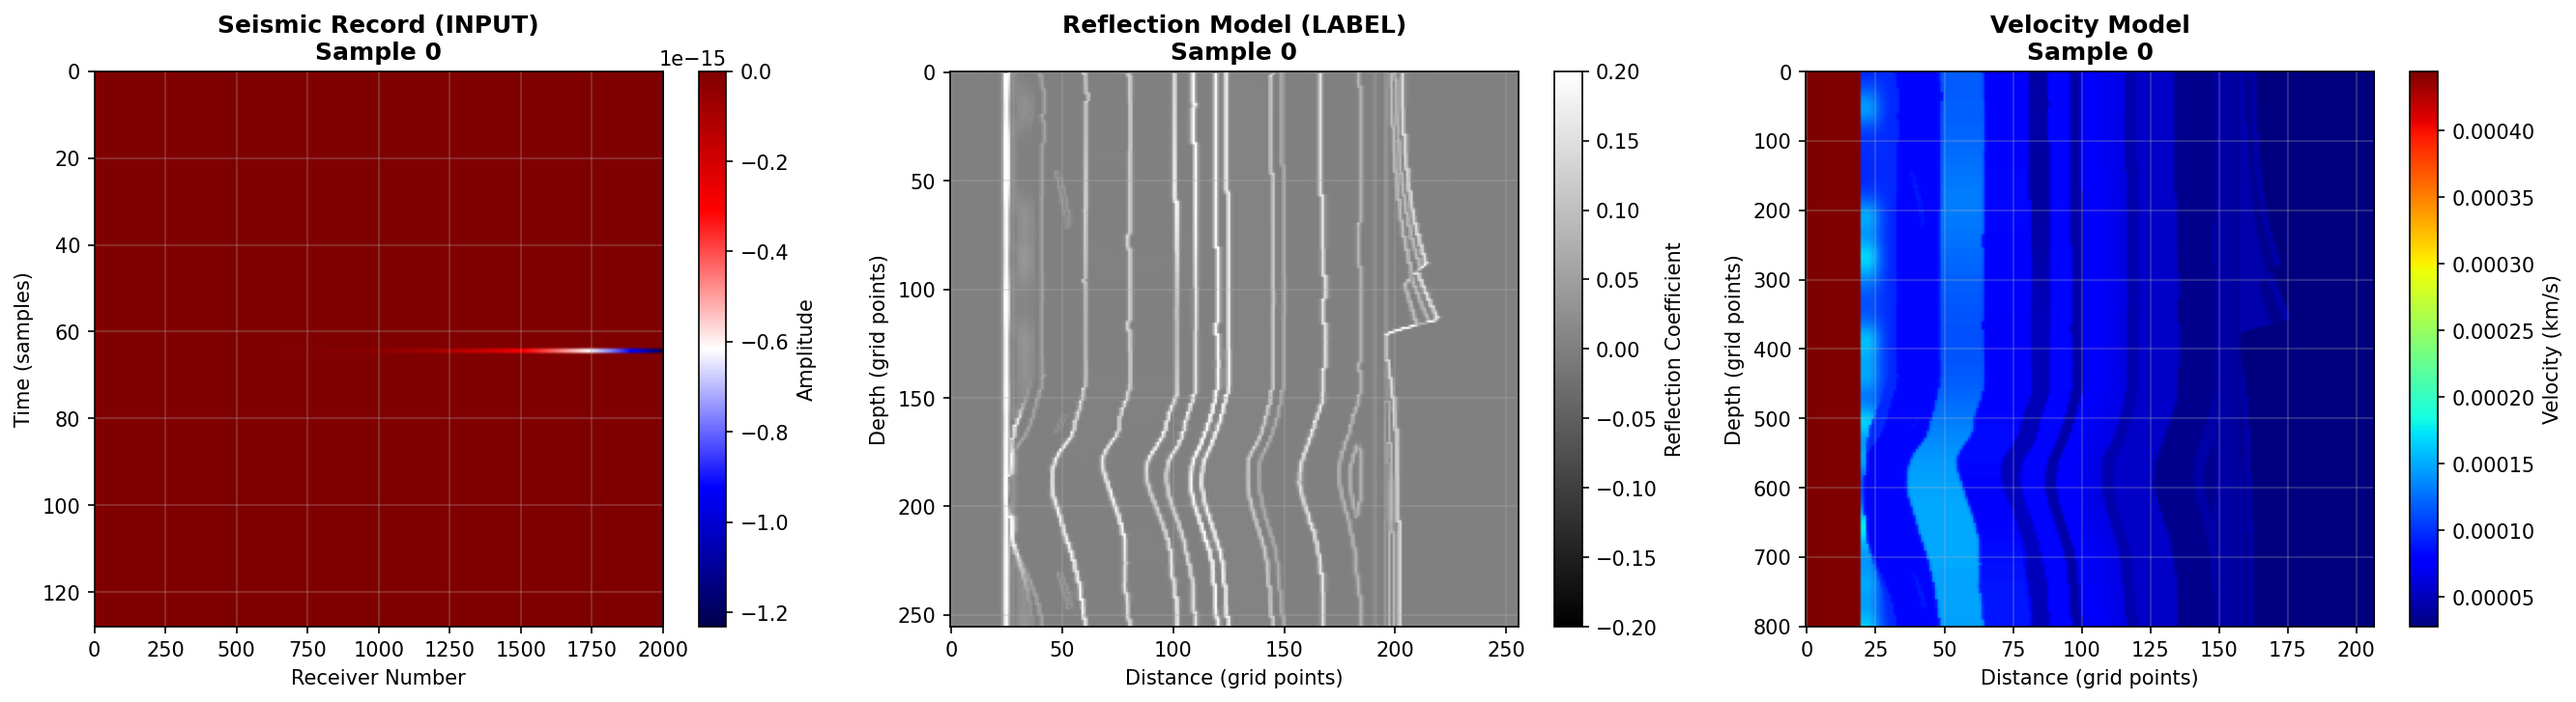
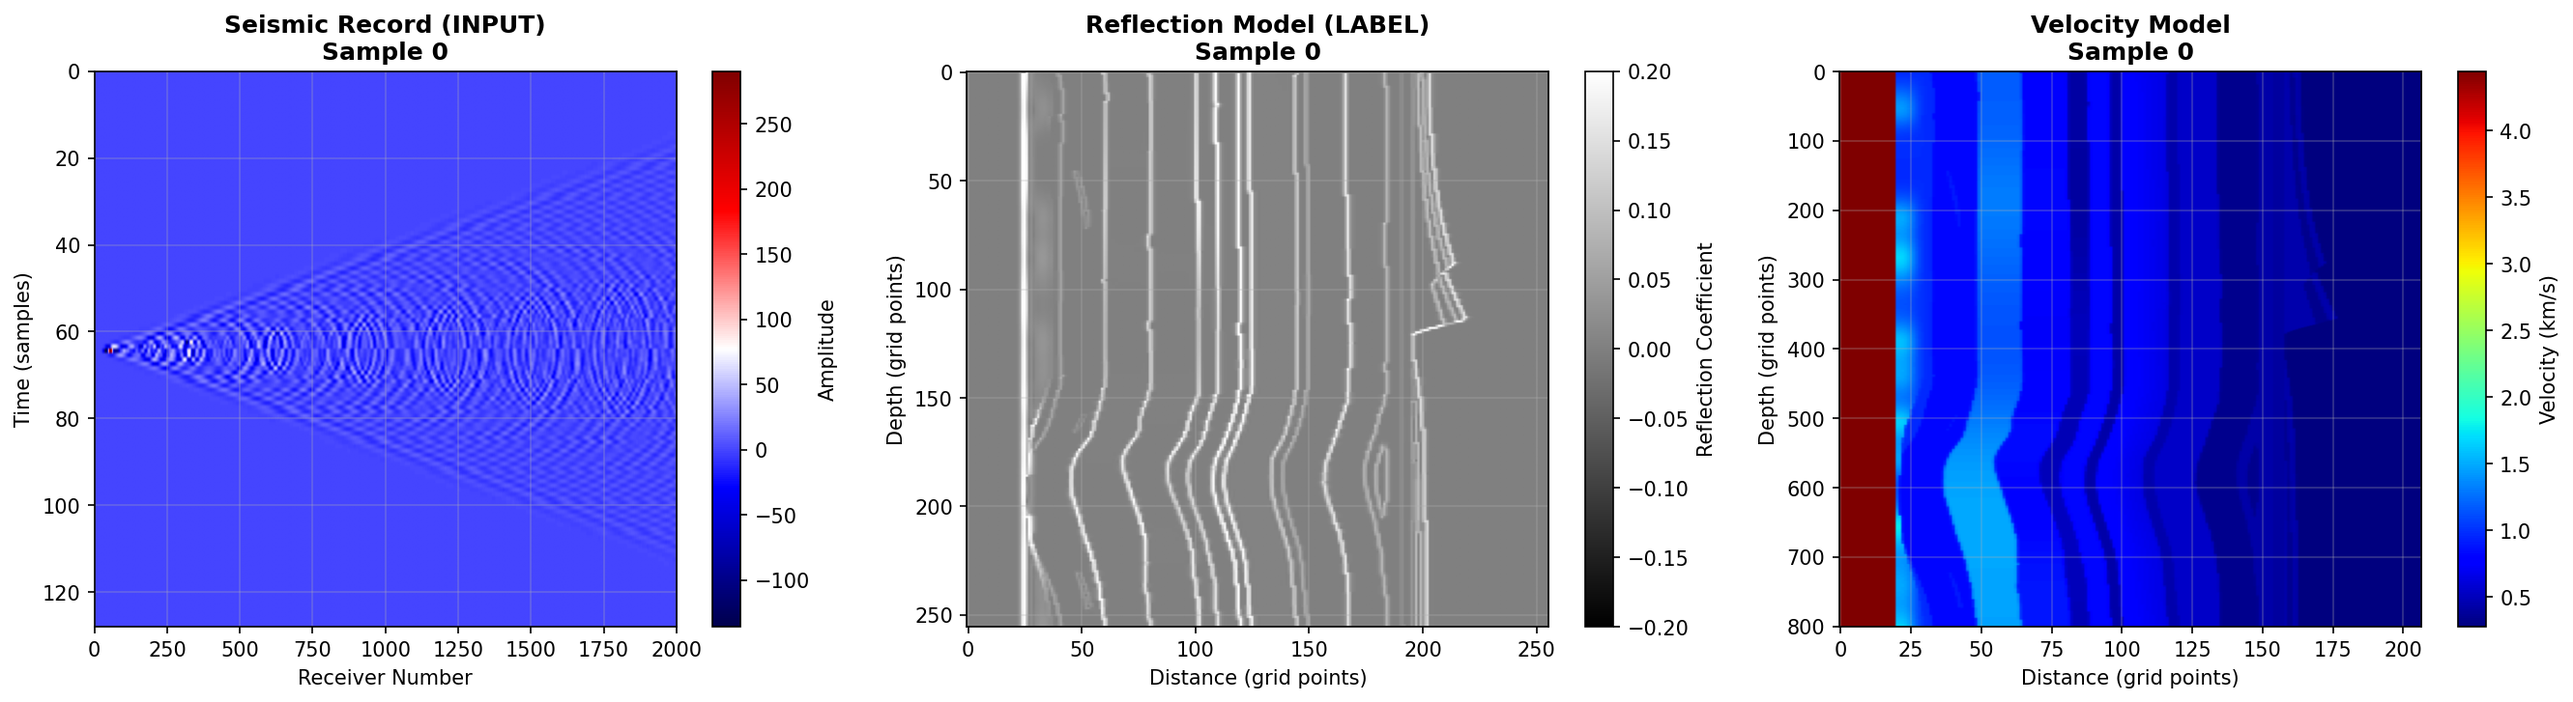
corrected the scaling of velocity model and changed dx and dz from 10 to 25 in config

diff --git a/data_preparation.py b/data_preparation.py
@@ -17,13 +17,12 @@ import os
 
 def load_overthrust_model_h5(filepath):
     """
-    Load the SEG/EAGE 3D Overthrust velocity model from HDF5 file.
+    Load SEG/EAGE 3D Overthrust velocity model.
     
-    HDF5 structure:
-    - 'm': velocity model, shape (207, 801, 801) = (nz, nx, ny) in m/s
-    - 'n': dimensions [nz, nx, ny]
-    - 'd': grid spacing [dz, dx, dy] in meters
-    - 'o': origin [oz, ox, oy]
+    CONFIRMED: 
+    - Grid spacing d = [25, 25, 25] meters
+    - Velocity values stored as km/s ÷ 10
+    - Must multiply by 10 to get true km/s
     """
     print("="*70)
     print("LOADING 3D OVERTHRUST MODEL FROM HDF5")
@@ -38,6 +37,7 @@ def load_overthrust_model_h5(filepath):
         
         print("Model Information:")
         print(f"  Raw shape (nz, nx, ny): {velocity_model_raw.shape}")
+        print(f"  Raw value range: {velocity_model_raw.min():.4f} - {velocity_model_raw.max():.4f}")
         print(f"  Dimensions [nz, nx, ny]: {dimensions}")
         print(f"  Grid spacing [dz, dx, dy]: {grid_spacing} meters")
         print(f"  Origin [oz, ox, oy]: {origin}")
@@ -45,23 +45,39 @@ def load_overthrust_model_h5(filepath):
     # Transpose to (nx, ny, nz)
     velocity_model = np.transpose(velocity_model_raw, (1, 2, 0))
     
-    # Convert from m/s to km/s
-    velocity_model = velocity_model / 1000.0
+    # *** CORRECT SCALING: Multiply by 10 ***
+    # Overthrust stores velocities as (km/s) / 10
+    velocity_model = velocity_model * 10.0
+    
+    # Verify grid spacing (should be 25m for standard Overthrust)
+    if np.allclose(grid_spacing, [25, 25, 25]):
+        print("\n✓ Confirmed: Standard Overthrust grid spacing (25m)")
+    else:
+        print(f"\n⚠  Non-standard grid spacing detected: {grid_spacing}")
     
     spacing = {
-        'dx': float(grid_spacing[1]),
-        'dy': float(grid_spacing[2]),
-        'dz': float(grid_spacing[0]),
+        'dx': float(grid_spacing[1]),  # Will be 25.0
+        'dy': float(grid_spacing[2]),  # Will be 25.0
+        'dz': float(grid_spacing[0]),  # Will be 25.0
         'origin': origin.tolist()
     }
     
     print(f"\nProcessed Model:")
     print(f"  Final shape (nx, ny, nz): {velocity_model.shape}")
-    print(f"  Velocity range: {velocity_model.min():.3f} - {velocity_model.max():.3f} km/s")
+    print(f"  Velocity range: {velocity_model.min():.2f} - {velocity_model.max():.2f} km/s")
     print(f"  Grid spacing: dx={spacing['dx']}m, dy={spacing['dy']}m, dz={spacing['dz']}m")
+    
+    # Sanity check
+    if 0.5 <= velocity_model.min() <= 2.0 and 3.0 <= velocity_model.max() <= 6.0:
+        print("✅ Velocity range is physically reasonable")
+    else:
+        print("⚠  WARNING: Unusual velocity range!")
+    
     print("="*70 + "\n")
     
     return velocity_model, spacing
+
+
 
 
 # ============================================================================
@@ -625,8 +641,8 @@ if __name__ == "__main__":
         'source_freq': 30.0,
         'dt': 0.001,
         't_max': 2.0,
-        'dx': 10.0,
-        'dz': 10.0,
+        'dx': 25.0,
+        'dz': 25.0,
         'pml_width': 10,
         'target_size': (256, 256),
         'test_run': False,

diff --git a/data_check.py b/data_check.py
@@ -25,3 +25,11 @@ with h5py.File(file_path, 'r') as f:
     # Also print top-level keys
     print("\nTop-level keys:")
     print(list(f.keys()))
+    
+    m = f['m'][:]
+    print(f"Velocity model 'm': min={m.min()}, max={m.max()}")
+
+    d = f['d'][:]
+    print(f"Grid spacing 'd': {d}")
+
+
